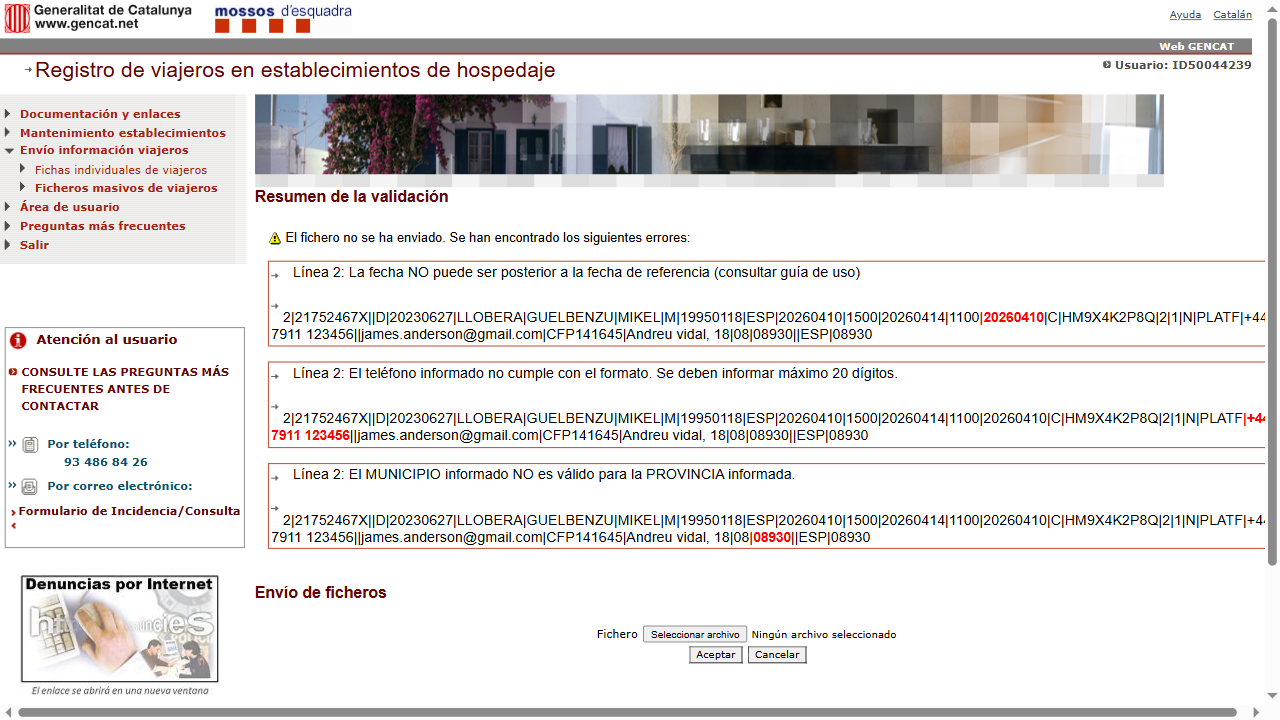
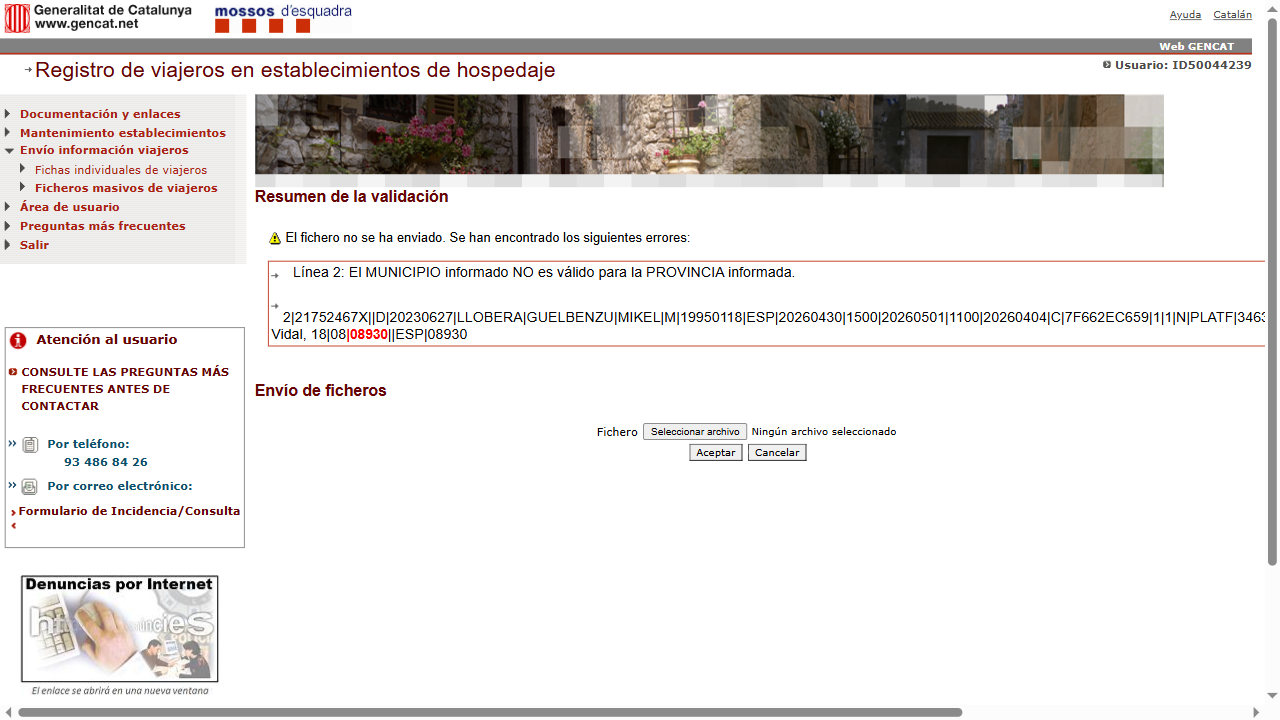
lets see

diff --git a/index.html b/index.html
@@ -385,40 +385,11 @@ main{max-width:500px;margin:0 auto;padding:28px 18px 80px;}
       </div>
     </div>
 
-    <!-- Dirección postal -->
-    <div class="card">
-      <div class="card-label">Dirección postal del huésped</div>
-      <div class="form-grid">
-        <div class="field">
-          <label>Calle y número</label>
-          <input type="text" id="f-adreca" placeholder="Calle Mayor, 1">
-        </div>
-        <div class="row2">
-          <div class="field">
-            <label>País (ISO-3)</label>
-            <input type="text" id="f-pais" placeholder="ESP" maxlength="3" value="ESP">
-          </div>
-          <div class="field">
-            <label>Código postal</label>
-            <input type="text" id="f-cp" placeholder="08001">
-          </div>
-        </div>
-        <div class="row2" id="row-esp">
-          <div class="field">
-            <label>Prov. INE (ej: 08)</label>
-            <input type="text" id="f-prov" placeholder="08" maxlength="2">
-          </div>
-          <div class="field">
-            <label>Mun. INE (ej: 080193)</label>
-            <input type="text" id="f-mun" placeholder="080193" maxlength="6">
-          </div>
-        </div>
-        <div class="field" id="row-ext" style="display:none">
-          <label>Localidad</label>
-          <input type="text" id="f-loc" placeholder="Paris">
-        </div>
-      </div>
-    </div>
+    <!-- Dirección postal — campos ocultos con valores vacíos -->
+    <input type="hidden" id="f-adreca" value="">
+    <input type="hidden" id="f-pais" value="ESP">
+    <input type="hidden" id="f-cp" value="">
+    <input type="hidden" id="f-loc" value="">
 
     <button class="btn btn-gold" onclick="generateFile()">Generar fichero Mossos →</button>
     <button class="btn btn-out" onclick="goStep(2)">← Volver</button>
@@ -791,12 +762,7 @@ function fillStep3() {
     document.getElementById('stay-ai-badge').style.display = 'inline-block';
   }
 
-  // Country logic
-  document.getElementById('f-pais').addEventListener('input', function() {
-    const esp = this.value.toUpperCase() === 'ESP';
-    document.getElementById('row-esp').style.display = esp ? 'grid' : 'none';
-    document.getElementById('row-ext').style.display = esp ? 'none' : 'block';
-  });
+  // Country logic — simplified, no INE codes needed
 }
 
 function setAI(id, val) {
@@ -871,9 +837,9 @@ function generateFile() {
     v('f-email')||'',
     (v('f-suport')||'').toUpperCase(),
     v('f-adreca')||'',
-    pais==='ESP' ? (v('f-prov')||'') : '',
-    pais==='ESP' ? (v('f-mun')||'') : '',
-    pais!=='ESP' ? (v('f-loc')||'') : '',
+    '',
+    '',
+    (v('f-loc')||''),
     pais,
     v('f-cp')||''
   ];
